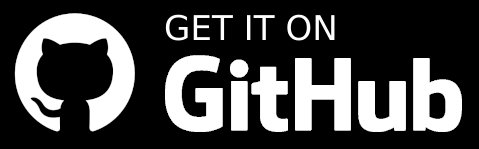
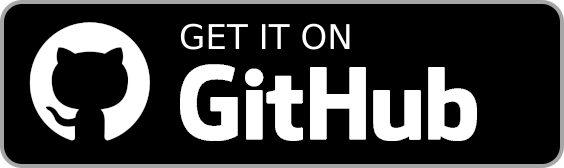
Release v125: Fix import error and improve UI
- Fix ImportError for config.js in preferences
  - Removed inaccessible resource:///org/gnome/shell/misc/config.js import
  - Use GLib.getenv() to get GNOME Shell session info instead

- Improve wind gusts display
  - Show en dash (–) when no gust data is available
  - Previously showed ellipsis (...) which was confusing

- Adjust default panel position
  - Widget now appears after the clock (position-index: 1)
  - Previously appeared before the clock (position-index: 0)

Version: 124 → 125

diff --git a/src/openweathermap.js b/src/openweathermap.js
@@ -173,12 +173,12 @@ export async function initWeatherData(refresh) {
                     }
                 }
                 catch (e) {
-                    logError(e);
+                    console.error(e);
                 }
             });
     }
     catch (e) {
-        logError(e);
+        console.error(e);
     }
 }
 
@@ -204,12 +204,12 @@ export async function reloadWeatherCache() {
                     }
                 }
                 catch (e) {
-                    logError(e);
+                    console.error(e);
                 }
             });
     }
     catch (e) {
-        logError(e);
+        console.error(e);
     }
 }
 
@@ -222,7 +222,7 @@ export async function refreshWeatherData() {
         units: 'metric'
     };
     if (this._providerTranslations) {
-        params.lang = this.locale;
+        params.lang = this.locale.replace('-', '_');
     }
     if (this._appid) {
         params.appid = this._appid;
@@ -236,7 +236,7 @@ export async function refreshWeatherData() {
                     await this.populateCurrentUI();
                 }
                 catch (e) {
-                    logError(e);
+                    console.error(e);
                 }
             });
     }
@@ -244,7 +244,8 @@ export async function refreshWeatherData() {
         // Something went wrong, reload after 10 minutes
         // as per openweathermap.org recommendation.
         this.reloadWeatherCurrent(600);
-        logError(e);
+        this._weatherInfo.text = "Err: " + e.toString().substring(0, 15);
+        console.error(e);
     }
     this.reloadWeatherCurrent(this._refresh_interval_current);
 }
@@ -264,7 +265,7 @@ export async function refreshForecastData() {
         units: 'metric'
     };
     if (this._providerTranslations) {
-        params.lang = this.locale;
+        params.lang = this.locale.replace('-', '_');
     }
     if (this._appid) {
         params.appid = this._appid;
@@ -295,7 +296,7 @@ export async function refreshForecastData() {
                                 await this.populateTodaysUI();
                             }
                             catch (e) {
-                                logError(e);
+                                console.error(e);
                             }
                         });
                     // 5 day / 3 hour forecast
@@ -310,12 +311,12 @@ export async function refreshForecastData() {
                                 await this.populateForecastUI();
                             }
                             catch (e) {
-                                logError(e);
+                                console.error(e);
                             }
                         });
                 }
                 catch (e) {
-                    logError(e);
+                    console.error(e);
                 }
             });
     }
@@ -323,7 +324,7 @@ export async function refreshForecastData() {
         /// Something went wrong, reload after 10 minutes
         // as per openweathermap.org recommendation.
         this.reloadWeatherForecast(600);
-        logError(e);
+        console.error(e);
     }
     this.reloadWeatherForecast(this._refresh_interval_forecast);
 }
@@ -384,8 +385,11 @@ export function populateCurrentUI() {
                 this._currentWeatherWind.text = this.formatWind(json.wind.speed, this.getWindDirection(json.wind.deg));
                 if (json.wind.gust != undefined)
                     this._currentWeatherWindGusts.text = this.formatWind(json.wind.gust);
+                else
+                    this._currentWeatherWindGusts.text = '\u2013'; // en dash for "no data"
             } else {
                 this._currentWeatherWind.text = this._("?");
+                this._currentWeatherWindGusts.text = '\u2013';
             }
             resolve(0);
         }
@@ -486,8 +490,22 @@ export function populateForecastUI() {
     });
 }
 
+// Shared session instance
+let _httpSession;
+
 export function loadJsonAsync(url, params, metadata) {
+    console.log("OpenWeather: loadJsonAsync called for " + url);
     return new Promise((resolve, reject) => {
+        if (!metadata) {
+            reject(new Error("Metadata missing"));
+            return;
+        }
+
+        // Initialize session if needed
+        if (!_httpSession) {
+            _httpSession = new Soup.Session();
+            _httpSession.timeout = 30; // 30 seconds timeout
+        }
 
         // Create user-agent string from uuid and (if present) the version
         let _userAgent = metadata.uuid;
@@ -496,26 +514,40 @@ export function loadJsonAsync(url, params, metadata) {
             _userAgent += metadata.version.toString();
         }
 
-        let _httpSession = new Soup.Session();
-        let _paramsHash = Soup.form_encode_hash(params);
-        let _message = Soup.Message.new_from_encoded_form('GET', url, _paramsHash);
-        // add trailing space, so libsoup adds its own user-agent
+        // Update user agent if properly initialized
         _httpSession.user_agent = _userAgent + ' ';
 
-        _httpSession.send_and_read_async(_message, GLib.PRIORITY_DEFAULT, null, (_httpSession, _message) => {
+        let _query = "";
+        let _keys = Object.keys(params);
+        for (let i = 0; i < _keys.length; i++) {
+            _query += _keys[i] + "=" + encodeURIComponent(params[_keys[i]]) + "&";
+        }
+        _query = _query.slice(0, -1); // remove last &
 
-            let bytes = _httpSession.send_and_read_finish(_message).get_data();
-            let decoder = new TextDecoder('utf-8');
-            let _jsonString = decoder.decode(bytes);
+        let _message = Soup.Message.new('GET', url + "?" + _query);
+        console.log("OpenWeather: Sending request...");
+
+        _httpSession.send_and_read_async(_message, GLib.PRIORITY_DEFAULT, null, (_session, _result) => {
+            console.log("OpenWeather: Response received");
 
             try {
+                let bytes = _session.send_and_read_finish(_result);
+
+                if (_message.get_status() !== 200) {
+                    reject(new Error("HTTP " + _message.get_status()));
+                    return;
+                }
+
+                let decoder = new TextDecoder('utf-8');
+                let _jsonString = decoder.decode(bytes.toArray());
+
                 if (!_jsonString) {
                     throw new Error("No data in response body");
                 }
                 resolve(JSON.parse(_jsonString));
             }
             catch (e) {
-                _httpSession.abort();
+                console.log("OpenWeather: Error in callback: " + e);
                 reject(e);
             }
         });

diff --git a/src/extension.js b/src/extension.js
@@ -26,6 +26,9 @@ import * as Main from 'resource:///org/gnome/shell/ui/main.js';
 import * as PanelMenu from 'resource:///org/gnome/shell/ui/panelMenu.js';
 import * as PopupMenu from 'resource:///org/gnome/shell/ui/popupMenu.js';
 import * as GnomeSession from 'resource:///org/gnome/shell/misc/gnomeSession.js';
+import Shell from 'gi://Shell';
+
+const global = Shell.Global.get();
 
 import { Extension, gettext as _ } from 'resource:///org/gnome/shell/extensions/extension.js';
 import * as OpenWeatherMap from './openweathermap.js';
@@ -287,7 +290,7 @@ let OpenWeatherMenuButton = GObject.registerClass(
             this._settings = this._extension.getSettings();
 
             if (this._cities.length === 0)
-                this._cities = "43.6534817,-79.3839347>Toronto >0";
+                this._cities = "-12.9822499,-38.4812772>Salvador >0";
 
             this._currentLocation = this.extractCoord(this._city);
             this._isForecastDisabled = this._disable_forecast;
@@ -300,7 +303,7 @@ let OpenWeatherMenuButton = GObject.registerClass(
             let lang = GLib.get_language_names()[0];
             if (lang) {
                 // Strip encoding (e.g. .UTF-8)
-                lang = lang.split('.')[0];
+                lang = lang.split('.')[0].replace('_', '-');
                 if (lang === 'C')
                     this.locale = 'en';
                 else
@@ -328,7 +331,7 @@ let OpenWeatherMenuButton = GObject.registerClass(
                 }
                 else if (this.locationChanged()) {
                     if (this._cities.length === 0)
-                        this._cities = "43.6534817,-79.3839347>Toronto >0";
+                        this._cities = "-12.9822499,-38.4812772>Salvador >0";
                     this.showRefreshing();
                     if (this._selectCity._getOpenState())
                         this._selectCity.menu.toggle();
@@ -469,7 +472,7 @@ let OpenWeatherMenuButton = GObject.registerClass(
                     this._network_monitor.can_reach_async(address, cancellable, this._asyncReadyCallback.bind(this));
                 } catch (err) {
                     let title = _("Can not connect to %s").format(url);
-                    log(title + '\n' + err.message);
+                    console.log(title + '\n' + err.message);
                     this._checkConnectionStateRetry();
                 }
                 return false;
@@ -481,7 +484,7 @@ let OpenWeatherMenuButton = GObject.registerClass(
                 this._connected = this._network_monitor.can_reach_finish(res);
             } catch (err) {
                 let title = _("Can not connect to %s").format(this.getWeatherProviderURL());
-                log(title + '\n' + err.message);
+                console.log(title + '\n' + err.message);
                 this._checkConnectionStateRetry();
                 return;
             }
@@ -893,7 +896,7 @@ let OpenWeatherMenuButton = GObject.registerClass(
 
         _onPreferencesActivate() {
             this.menu.close();
-            ExtensionUtils.openPrefs();
+            this._extension.openPreferences();
             return 0;
         }
 

diff --git a/src/preferences/locationsPage.js b/src/preferences/locationsPage.js
@@ -23,6 +23,7 @@ import GLib from 'gi://GLib';
 
 import { gettext as _ } from 'resource:///org/gnome/Shell/Extensions/js/extensions/prefs.js';
 
+
 // Keep enums in sync with GSettings schemas
 const GeolocationProvider = {
     OPENSTREETMAPS: 0,
@@ -595,7 +596,7 @@ var SearchResultsWindow = GObject.registerClass(
                         });
                 }
                 catch (e) {
-                    log("_findLocation OpenStreetMap error: " + e);
+                    console.error("_findLocation OpenStreetMap error: " + e);
                 }
             }
             // MapQuest
@@ -631,7 +632,7 @@ var SearchResultsWindow = GObject.registerClass(
                         });
                 }
                 catch (e) {
-                    log("_findLocation MapQuest error: " + e);
+                    console.error("_findLocation MapQuest error: " + e);
                 }
             }
             // Geocode.Farm
@@ -662,7 +663,7 @@ var SearchResultsWindow = GObject.registerClass(
                         });
                 }
                 catch (e) {
-                    log("_findLocation Geocode error: " + e);
+                    console.error("_findLocation Geocode error: " + e);
                 }
             }
             return 0;
@@ -673,8 +674,14 @@ var SearchResultsWindow = GObject.registerClass(
                 let _userAgent = 'openweather-modern@mateusfbi.gmail.com';
 
                 let _httpSession = new Soup.Session();
-                let _paramsHash = Soup.form_encode_hash(params);
-                let _message = Soup.Message.new_from_encoded_form('GET', url, _paramsHash);
+                let _query = "";
+                let _keys = Object.keys(params);
+                for (let i = 0; i < _keys.length; i++) {
+                    _query += _keys[i] + "=" + encodeURIComponent(params[_keys[i]]) + "&";
+                }
+                _query = _query.slice(0, -1); // remove last &
+
+                let _message = Soup.Message.new('GET', url + "?" + _query);
                 // add trailing space, so libsoup adds its own user-agent
                 _httpSession.user_agent = _userAgent + ' ';
 

diff --git a/src/preferences/aboutPage.js b/src/preferences/aboutPage.js
@@ -22,7 +22,7 @@ import GdkPixbuf from 'gi://GdkPixbuf';
 import GObject from 'gi://GObject';
 
 import { gettext as _ } from 'resource:///org/gnome/Shell/Extensions/js/extensions/prefs.js';
-import * as Config from 'resource:///org/gnome/Shell/Extensions/js/misc/config.js';
+
 
 export const AboutPage = GObject.registerClass(
     class OpenWeather_AboutPage extends Adw.PreferencesPage {
@@ -95,7 +95,7 @@ export const AboutPage = GObject.registerClass(
                 title: _("GNOME Version")
             });
             gnomeVersionRow.add_suffix(new Gtk.Label({
-                label: Config.PACKAGE_VERSION + '',
+                label: GLib.getenv('GNOME_SHELL_SESSION_MODE') || 'GNOME Shell',
             }));
             // session type
             let sessionTypeRow = new Adw.ActionRow({
@@ -133,17 +133,17 @@ export const AboutPage = GObject.registerClass(
                 uri: 'https://www.paypal.com/donate/?hosted_button_id=6FLPTVXCJBVVC'
             });
 
-            pixbuf = GdkPixbuf.Pixbuf.new_from_file_at_scale(extension.path + '/media/gitlab-icon.png', -1, 50, true);
-            let gitlabImage = Gtk.Picture.new_for_pixbuf(pixbuf);
-            let gitlabButton = new Gtk.LinkButton({
-                child: gitlabImage,
+            pixbuf = GdkPixbuf.Pixbuf.new_from_file_at_scale(extension.path + '/media/get-it-on-github.png', -1, 50, true);
+            let githubImage = Gtk.Picture.new_for_pixbuf(pixbuf);
+            let githubButton = new Gtk.LinkButton({
+                child: githubImage,
                 uri: extension.metadata.url
             });
             let imageLinksBox = new Adw.ActionRow();
 
             maintainerBox.append(maintainerAbout);
             imageLinksBox.add_prefix(donateButton);
-            imageLinksBox.add_suffix(gitlabButton);
+            imageLinksBox.add_suffix(githubButton);
             maintainerGroup.add(maintainerBox);
             imageLinksGroup.add(imageLinksBox);
             this.add(maintainerGroup);

diff --git a/src/prefs.js b/src/prefs.js
@@ -20,6 +20,7 @@ import Gtk from 'gi://Gtk';
 import Gdk from 'gi://Gdk';
 
 import { ExtensionPreferences } from 'resource:///org/gnome/Shell/Extensions/js/extensions/prefs.js';
+
 import * as GeneralPrefs from './preferences/generalPage.js';
 import * as LayoutPrefs from './preferences/layoutPage.js';
 import * as LocationsPrefs from './preferences/locationsPage.js';

diff --git a/src/preferences/generalPage.js b/src/preferences/generalPage.js
@@ -21,6 +21,7 @@ import GObject from 'gi://GObject';
 
 import { gettext as _ } from 'resource:///org/gnome/Shell/Extensions/js/extensions/prefs.js';
 
+
 export const GeneralPage = GObject.registerClass(
     class OpenWeather_GeneralPage extends Adw.PreferencesPage {
         _init(settings) {

diff --git a/src/preferences/layoutPage.js b/src/preferences/layoutPage.js
@@ -21,6 +21,7 @@ import GObject from 'gi://GObject';
 
 import { gettext as _ } from 'resource:///org/gnome/Shell/Extensions/js/extensions/prefs.js';
 
+
 export const LayoutPage = GObject.registerClass(
     class OpenWeather_LayoutPage extends Adw.PreferencesPage {
         _init(settings) {
